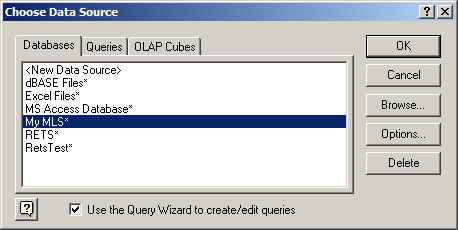
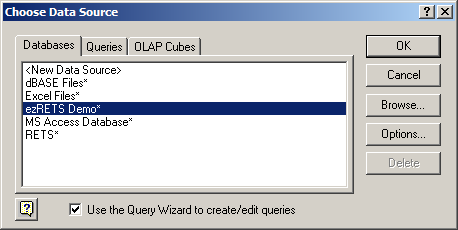
Documentation update from Hoos
git-svn-id: https://code.crt.realtors.org/svn/odbcretsdrv/ezrets/trunk@705 fe7ac059-47f5-0310-8599-d0339b4e125c

Changed region(s): [[0.0306, 0.4261, 0.7642, 0.5783], [0.0611, 0.6087, 0.1528, 0.6696], [0.8253, 0.7, 0.917, 0.7304]]

diff --git a/doc/ExcelTutorial/ExcelTutorial.html b/doc/ExcelTutorial/ExcelTutorial.html
@@ -4,88 +4,104 @@
       based on Norman Walsh's DocBook XSL stylesheets.
       More information at http://www.linuxdoc.org/ -->
   </head><body bgcolor="white" text="black" link="#0000FF" vlink="#840084" alink="#0000FF"><div class="article" lang="en"><div class="titlepage"><div><div><h2 class="title"><a name="N10001"></a>Using ezRETS to Import Multiple Listing Service Data into Microsoft
-  Excel</h2></div></div><div></div><hr></div><div class="toc"><p><b>Table of Contents</b></p><dl><dt><span class="section"><a href="#N10005">1. Introduction</a></span></dt><dt><span class="section"><a href="#N1000A">2. What you'll need</a></span></dt><dt><span class="section"><a href="#N1001C">3. Getting started</a></span></dt></dl></div><div class="section" lang="en"><div class="titlepage"><div><div><h2 class="title" style="clear: both"><a name="N10005"></a>1.&nbsp;Introduction</h2></div></div><div></div></div><p>The ezRETS ODBC driver from the Center for Realtor Technology at the
-    National Association of REALTORS&reg;, was designed to allow ODBC-aware
-    software to easily query data from any Multiple Listing Service that
-    supports the RETS standard. Many of the programs in Microsoft Office can
-    utilize ezRETS to integrate real estate listing data directly into your
-    own custom documents. The following is a short tutorial that demonstrates
-    how to do this in Microsoft Excel.</p></div><div class="section" lang="en"><div class="titlepage"><div><div><h2 class="title" style="clear: both"><a name="N1000A"></a>2.&nbsp;What you'll need</h2></div></div><div></div></div><p>For this tutorial, you'll need:</p><div class="itemizedlist"><ul type="disc"><li><p>The latest version of the ezRETS driver, which can be obtained
-        from the web site<a href="???" target="_top">http://www.crt.realtors.org/projects/rets/ezrets/</a></p></li><li><p>An ezRETS data source defined in Windows' "Data Sources (ODBC)"
-        control panel. </p></li><li><p>An installation of Microsoft Office that includes Excel. The
+  Excel</h2></div></div><div></div><hr></div><div class="toc"><p><b>Table of Contents</b></p><dl><dt><span class="section"><a href="#N10005">1. Introduction</a></span></dt><dt><span class="section"><a href="#N1000E">2. What you'll need</a></span></dt><dt><span class="section"><a href="#N10022">3. Using ezRETS from Excel, step-by-step</a></span></dt></dl></div><div class="section" lang="en"><div class="titlepage"><div><div><h2 class="title" style="clear: both"><a name="N10005"></a>1.&nbsp;Introduction</h2></div></div><div></div></div><p>The ezRETS ODBC driver, from the Center for Realtor Technology at
+    the <span class="trademark">National Association of
+    REALTORS</span>&reg;, was designed to allow ODBC-aware applications to
+    easily query data from any Multiple Listing Service that supports the RETS
+    standard. Many of the programs in Microsoft Office can utilize ezRETS to
+    integrate real estate listing data directly into your own custom
+    documents. The following is a short tutorial that demonstrates how to do
+    this in Microsoft Excel.</p></div><div class="section" lang="en"><div class="titlepage"><div><div><h2 class="title" style="clear: both"><a name="N1000E"></a>2.&nbsp;What you'll need</h2></div></div><div></div></div><p>For this tutorial, you'll need:</p><div class="itemizedlist"><ul type="disc"><li><p>The latest version of the ezRETS driver, which can be obtained
+        from the web site<a href="???" target="_top">
+        http://www.crt.realtors.org/projects/rets/ezrets/</a></p></li><li><p>An ODBC ezRETS data source named "ezRETS Demo" which is set up
+        to connect to the ezRETS demo RETS server. Information on how to do
+        this is available at <i class="emphasis">&lt;insert URL
+        here&gt;</i></p></li><li><p>An installation of Microsoft Office that includes Excel. The
         images and examples in this tutorial come from Microsoft Office XP,
         but the same steps should work in other versions with only slight
-        differences.</p></li></ul></div></div><div class="section" lang="en"><div class="titlepage"><div><div><h2 class="title" style="clear: both"><a name="N1001C"></a>3.&nbsp;Getting started</h2></div></div><div></div></div><p>To begin, create a new blank workbook in Microsoft Excel. Once it
-    comes up, click on the "Data" menu on Excel's main menu bar, navigate to
-    the "Import External Data" submenu, and select the "New Database Query..."
-    menu item:</p><div class="informalfigure"><div class="screenshot"><div class="mediaobject"><img src="datamenu.png"></div></div></div><p>Excel will then open up the Microsoft Query application, which will
-    present a window asking you to choose the data source you want to access.
-    Select the ezRETS data source you wish to use from the list:</p><div class="informalfigure"><div class="screenshot"><div class="mediaobject"><img src="datasource.png"></div></div></div><p>Make sure that the checkbox next to "Use the Query Wizard to
-    create/edit queries" is checked, and click "OK".</p><p>The next window will present you with a list of tables that
-    are available from the MLS system. Depending on the information
-    that is available from your MLS, you may see several tables with
-    names that start with "data:", like
-    "data:Property:ResidentialProperty".  Find the table that contains
-    the information for the type of properties you're looking for; for
-    this example we will choose "data:Property:ResidentialProperty",
-    which contains information about residential property listings. To
-    the left of the table name, you'll see a <span class="inlinemediaobject"><img src="plus.png"></span> icon. Click on this icon to reveal the list of
-    columns that exist in this table:</p><div class="informalfigure"><div class="screenshot"><div class="mediaobject"><img src="columns.png"></div></div></div><p>Select the "ListingID" column, and click the "&gt;" button. When you
-    do this, the column name will move over to the list on the right side of
-    the window, to indicate that it will be included in the results of your
-    query. Do this again for a few other fields, such as "ListingStatus",
-    "ListDate", "Unstructured", "City", and "ListPrice" columns:</p><div class="informalfigure"><div class="screenshot"><div class="mediaobject"><img src="selectedcolumns.png"></div></div></div><div class="caution" style="margin-left: 0.5in; margin-right: 0.5in;"><h3 class="title">Caution</h3><p>Don't select columns from more than one table! While the Query
-      Wizard will let you do this, it isn't supported by the ezRETS driver,
-      and will cause an error message when you click the "Next" button!</p></div><p>Click "Next" to move on to the "Filter Data" window, where you can
-    define the criteria for your query:</p><div class="informalfigure"><div class="screenshot"><div class="mediaobject"><img src="filter.png"></div></div></div><p>Criteria can be defined for any of the columns that you added to the
-    query in the previous window. For example, you could have the query look
-    only for a specific listing number by adding a criteria for the
-    "ListingID" field. It is highly recommended that you define some sort of
-    criteria for an MLS query, since otherwise there's a good chance that the
-    MLS service will refuse the query since it would return too many
-    listings.</p><p>For this example, we're going to limit the query to look only for
-    properties in a certain city and price range. To do this, first select the
-    "City" column on the left. When you do this, the first drop-down menu will
-    activate. In this dropdown, select "equals". The field to the right of the
-    menu will then activate; in this field enter "Fishers". This will limit
-    the query to only returning results in that city. Your screen should look
-    like this:</p><div class="informalfigure"><div class="screenshot"><div class="mediaobject"><img src="filtercity.png"></div></div></div><p>Also notice that "City" on the left is now in bold print; this is to
-    indicate that you have entered filter criteria for this column. Now select
-    the "ListPrice" column. When you do this, the information on the right
-    side of the screen will reset; this is because we haven't added criteria
-    for "ListPrice" yet. (If you go click on "City" again, the criteria you
-    entered for "City" will re-appear.) In the first drop-down menu, select
-    "is greater than", and then enter "125000" in the field to the right. The
-    next drop-down will then activate; in that drop-down, select "is less
-    than", and enter "150000" in the field to the right of it. Make sure that
-    the "And" button between the first and second dropdown is selected; this
-    tells the MLS service that a listing must match both of these "ListPrice"
-    criteria to be acceptable. The criteria for ListPrice should look
-    like:</p><div class="informalfigure"><div class="screenshot"><div class="mediaobject"><img src="filterprice.png"></div></div></div><p>Click "Next". The next window will allow you to pick which
-    columns of the query you'd like the results to be sorted
-    by. Unfortunately, RETS does not support this type of
-    functionality.  You can just click next at this screen.  (This
-    graphic needs to be updated.</p><div class="informalfigure"><div class="screenshot"><div class="mediaobject"><img src="sort.png"></div></div></div><p>Click "Next". On the next window, select "Return data to Microsoft
-    Excel", and click "Finish":</p><div class="informalfigure"><div class="screenshot"><div class="mediaobject"><img src="finish.png"></div></div></div><p>You will then be returned to Microsoft Excel. Excel will display one
-    final window, asking you where you'd like the data to be written. You have
-    the choice of creating a new table of data starting at an existing cell in
-    the workbook, or to put the new data into a new sheet. For this tutorial,
-    select "New sheet" like so, then click "OK":</p><div class="informalfigure"><div class="screenshot"><div class="mediaobject"><img src="saveto.png"></div></div></div><p>Excel will add a new sheet to your workbook, and run the query. When
-    it completes, you should have a new sheet that looks something like
-    this:</p><div class="informalfigure"><div class="screenshot"><div class="mediaobject"><img src="data.png"></div></div></div><p>As you can see, the results are returned in a table format, with
+        differences.</p></li></ul></div></div><div class="section" lang="en"><div class="titlepage"><div><div><h2 class="title" style="clear: both"><a name="N10022"></a>3.&nbsp;Using ezRETS from Excel, step-by-step</h2></div></div><div></div></div><div class="orderedlist"><ol type="1"><li><p>Create a new blank workbook in Microsoft Excel.</p></li><li><p>Click on the <span class="guimenu">Data</span> menu on Excel's main menu
+        bar, navigate to the <span class="guimenuitem">Import External Data</span>
+        submenu, and select the <span class="guimenuitem">New Database
+        Query...</span> menu item:</p><div class="informalfigure"><div class="screenshot"><div class="mediaobject"><img src="datamenu.png"></div></div></div></li><li><p>Excel will then open up the Microsoft Query application, which
+        will present a window asking you to choose the data source you want to
+        access. For this tutorial, select the <span class="guilabel">ezRETS Demo</span>
+        data source:</p><div class="informalfigure"><div class="screenshot"><div class="mediaobject"><img src="datasource.png"></div></div></div></li><li><p>Make sure that the checkbox next to <span class="guibutton">Use the Query
+        Wizard to create/edit queries</span> is checked.</p></li><li><p>Click <span class="guibutton">OK</span>. </p></li><li><p>The <span class="guilabel">Query Wizard - Choose Columns</span> window
+        will appear next, presenting a list of tables that are available from
+        the MLS system. </p><p>For this tutorial, find the
+        <span class="guilabel">data:Property:ResidentialProperty</span> table under
+        <span class="guilabel">Available tables and columns:</span>. To the left of it,
+        you'll see a <span class="inlinemediaobject"><img src="plus.png"></span> icon. Click on this icon to reveal the list of
+        columns that exist in this table:</p><div class="informalfigure"><div class="screenshot"><div class="mediaobject"><img src="columns.png"></div></div></div></li><li><p>Select the <span class="guilabel">ListingID</span> column from the list
+        that appeared below
+        <span class="guilabel">data:Property:ResidentialProperty</span>, and click the
+        <span class="guibutton">&gt;</span> button. The column name will move over to
+        the list on the right side of the window, to indicate that it will be
+        included in the results of your query. </p></li><li><p>Repeat step 7 for a few other fields as well. Include at least
+        the <span class="guilabel">ListingStatus</span> and
+        <span class="guilabel">ListPrice</span> columns, as we'll need those later on
+        in the tutorial.</p><p>Your screen should now look something like this (a few more
+        columns have been added besides the ones mentioned above):</p><div class="informalfigure"><div class="screenshot"><div class="mediaobject"><img src="selectedcolumns.png"></div></div></div><div class="caution" style="margin-left: 0.5in; margin-right: 0.5in;"><h3 class="title">Caution</h3><p>Don't select columns from more than one table! While the Query
+          Wizard will let you do this, it isn't supported by the ezRETS
+          driver, and will cause an error message when you try to go to the
+          next screen of the Query Wizard.</p></div></li><li><p>Click <span class="guibutton">Next</span> to move on to the
+        <span class="guilabel">Query Wizard - Filter Data</span> window, where you can
+        define the criteria for your query:</p><div class="informalfigure"><div class="screenshot"><div class="mediaobject"><img src="filter.png"></div></div></div><p><div class="tip" style="margin-left: 0.5in; margin-right: 0.5in;"><h3 class="title">Tip</h3><p>Criteria can be defined for any of the columns that you
+            added to the query in the previous window. For example, you could
+            have the query look only for a specific listing number by adding a
+            criteria for the <span class="guilabel">ListingID</span> field.</p></div></p></li><li><p>For this tutorial, we're going to limit the query to look only
+        for active listings in a certain price range. Start by selecting the
+        <span class="guilabel">ListingStatus</span> column under <span class="guilabel">Column to
+        filter:</span>. </p></li><li><p>When you do this, the first drop-down menu will activate. In
+        this drop-down, select <span class="guilabel">equals</span>. </p></li><li><p>The field to the right of the menu will then activate; in this
+        field type in "Active". This will limit the query to only returning
+        listings that are currently active. Your screen should now look like
+        this:</p><div class="informalfigure"><div class="screenshot"><div class="mediaobject"><img src="filterstatus.png"></div></div></div><div class="caution" style="margin-left: 0.5in; margin-right: 0.5in;"><h3 class="title">Caution</h3><p>You must define at least one filter criteria for a RETS query.
+          Due to limitations in the RETS protocol, the ezRETS ODBC driver will
+          not return any results unless you define at least one
+          criteria.</p></div></li><li><p>Next, select the <span class="guilabel">ListPrice</span> column under
+        <span class="guilabel">Column to filter:</span>. When you do this, the
+        information on the right side of the screen will reset; this is
+        because we haven't added criteria for <span class="guilabel">ListPrice</span>
+        yet. You will also see that the <span class="guilabel">ListingStatus</span>
+        entry on the left is now in bold print, which indicates that criteria
+        have been entered for that field. If you click on
+        <span class="guilabel">ListingStatus</span> again, the criteria for that field
+        will be displayed again.</p></li><li><p>After selecting <span class="guilabel">ListPrice</span>, select
+        <span class="guilabel">is greater than</span> from the first drop-down.</p></li><li><p>Enter "350000" in the field to the right of the <span class="guimenuitem">is
+        greather than</span> drop-down..</p></li><li><p>The next drop-down will then activate, and the
+        <span class="guibutton">And</span> button will be selected by default. In that
+        drop-down, select <span class="guilabel">is less than</span>, and enter
+        "500000" in the field to the right of it. </p><div class="tip" style="margin-left: 0.5in; margin-right: 0.5in;"><h3 class="title">Tip</h3><p>The <span class="guilabel">And</span> button between the first and
+          second drop-down tells the MLS service that a listing must match
+          both of these criteria to be included in the query results; if you
+          select <span class="guibutton">Or</span>, then a listing will only need to
+          meet at least one of the two criteria to be included.</p></div><p>The criteria for <span class="guilabel">ListPrice</span> should look
+        like:</p><div class="informalfigure"><div class="screenshot"><div class="mediaobject"><img src="filterprice.png"></div></div></div></li><li><p>Click <span class="guilabel">Next</span>.</p></li><li><p>On the next window, <span class="guilabel">Query Wizard - Sort
+        Order</span>, click <span class="guilabel">Next</span>. Due to limitations
+        in the RETS protocol, ezRETS does not provide any sorting
+        capabilities.</p></li><li><p>On the next window, <span class="guilabel">Query Wizard - Finish</span>,
+        select <span class="guibutton">Return data to Microsoft Excel</span>:</p><div class="informalfigure"><div class="screenshot"><div class="mediaobject"><img src="finish.png"></div></div></div></li><li><p>Click <span class="guibutton">Finish</span>.</p></li><li><p>The last dialog asks where you'd like the data to be written.
+        You have the choice of creating a new table of data starting at an
+        existing cell in the workbook, or to put the new data into a new
+        sheet. For this tutorial, select <span class="guibutton">New sheet</span>,
+        then click <span class="guilabel">OK</span>:</p><div class="informalfigure"><div class="screenshot"><div class="mediaobject"><img src="saveto.png"></div></div></div></li></ol></div><p>Once you've finished the last step, Excel will run the query and add
+    a new sheet to your workbook with the results. You should have a new sheet
+    that looks something like this:</p><div class="informalfigure"><div class="screenshot"><div class="mediaobject"><img src="data.png"></div></div></div><p>As you can see, the results are returned in a table format, with
     column names in the first row, and one MLS listing in each following row.
     In the above example we have two separate listings, one on row 2 and one
     on row 3. You can now create references to this data on other sheets in
     the workbook using cell references and formulas like you would with any
-    other data in Excel. In addition, if you go to the "Insert" menu, to the
-    "Name" submenu, and select "Define...", you'll see that Excel has defined
-    a named range corresponding to your query that you can also utilize in
-    cell formulas such as summations. (For more information about named
-    ranges, consult Excel's built-in Help.)</p><p>Behind the scenes, Excel actually saves the information necessary to
-    retrieve this data again at a later date. Thus, you can easily come back
-    later on and bring the data up to date with any new information that may
-    have appeared in the listing service. Just go to the sheet that has the
-    data on it, right-click on a cell within the data, and select
-    "Refresh":</p><div class="informalfigure"><div class="screenshot"><div class="mediaobject"><img src="refresh.png"></div></div></div><p>That's it! You now have an Excel spreadsheet that can retrieve live
+    other data in Excel. In addition, if you go to the
+    <span class="guimenu">Insert</span> menu, to the <span class="guimenuitem">Name</span>
+    submenu, and select <span class="guimenuitem">Define...</span>, you'll see that
+    Excel has defined a named range corresponding to your query that you can
+    also utilize in cell formulas such as summations. (For more information
+    about named ranges, consult Excel's built-in Help.)</p><p>Behind the scenes, Excel actually saves the information necessary to
+    re-run the query and retrieve this data again. Thus, you can easily come
+    back later on and bring the data up to date with any new information that
+    may have appeared in the listing service. Just go to the sheet that has
+    the data on it, right-click on a cell within the data, and select
+    <span class="guimenuitem">Refresh Data</span>:</p><div class="informalfigure"><div class="screenshot"><div class="mediaobject"><img src="refresh.png"></div></div></div><p>That's it! You now have an Excel spreadsheet that can retrieve live
     data from your Multiple Listing Service, and update that data anytime you
     wish.</p></div></div></body></html>
